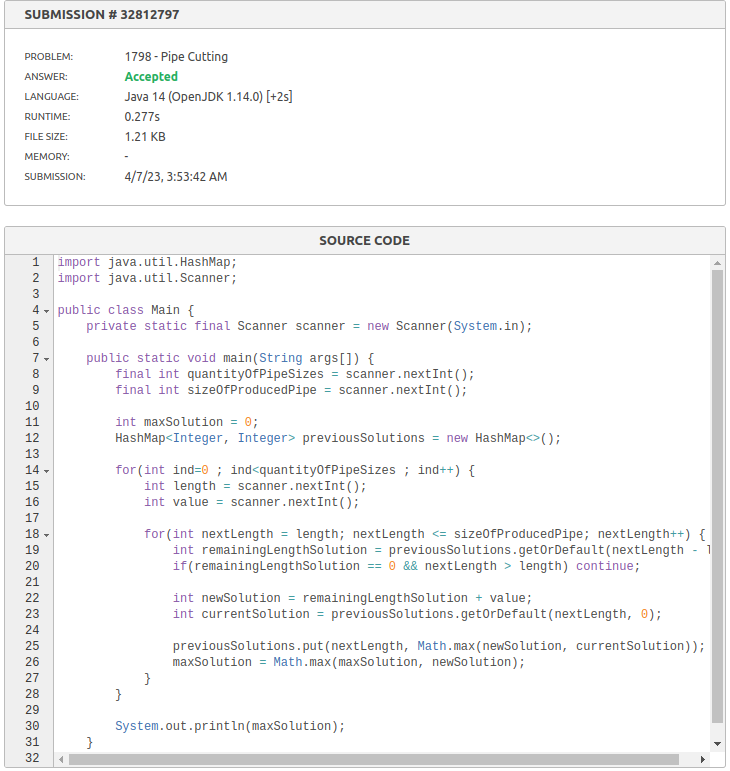
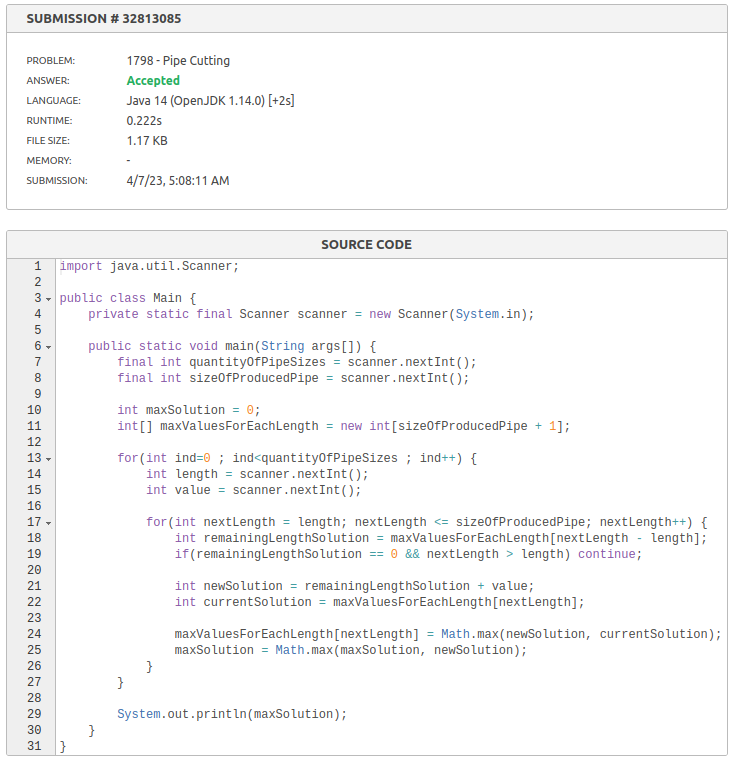
DP question 4 HashMap replaced by array

diff --git a/dynamicProgramming/question4/Main.java b/dynamicProgramming/question4/Main.java
@@ -1,6 +1,5 @@
 package dynamicProgramming.question4;
 
-import java.util.HashMap;
 import java.util.Scanner;
 
 public class Main {
@@ -11,20 +10,20 @@ public class Main {
         final int sizeOfProducedPipe = scanner.nextInt();
 
         int maxSolution = 0;
-        HashMap<Integer, Integer> previousSolutions = new HashMap<>();
+        int[] maxValuesForEachLength = new int[sizeOfProducedPipe + 1];
 
         for(int ind=0 ; ind<quantityOfPipeSizes ; ind++) {
             int length = scanner.nextInt();
             int value = scanner.nextInt();
 
             for(int nextLength = length; nextLength <= sizeOfProducedPipe; nextLength++) {
-                int remainingLengthSolution = previousSolutions.getOrDefault(nextLength - length, 0);
+                int remainingLengthSolution = maxValuesForEachLength[nextLength - length];
                 if(remainingLengthSolution == 0 && nextLength > length) continue;
 
                 int newSolution = remainingLengthSolution + value;
-                int currentSolution = previousSolutions.getOrDefault(nextLength, 0);
+                int currentSolution = maxValuesForEachLength[nextLength];
 
-                previousSolutions.put(nextLength, Math.max(newSolution, currentSolution));
+                maxValuesForEachLength[nextLength] = Math.max(newSolution, currentSolution);
                 maxSolution = Math.max(maxSolution, newSolution);
             }
         }
